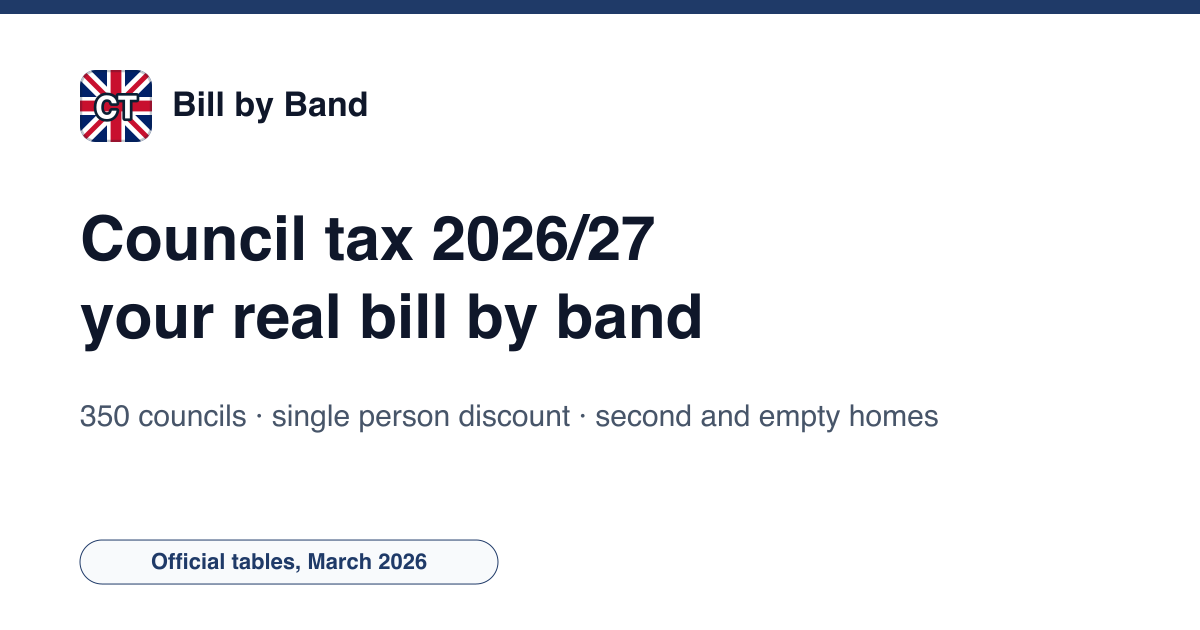
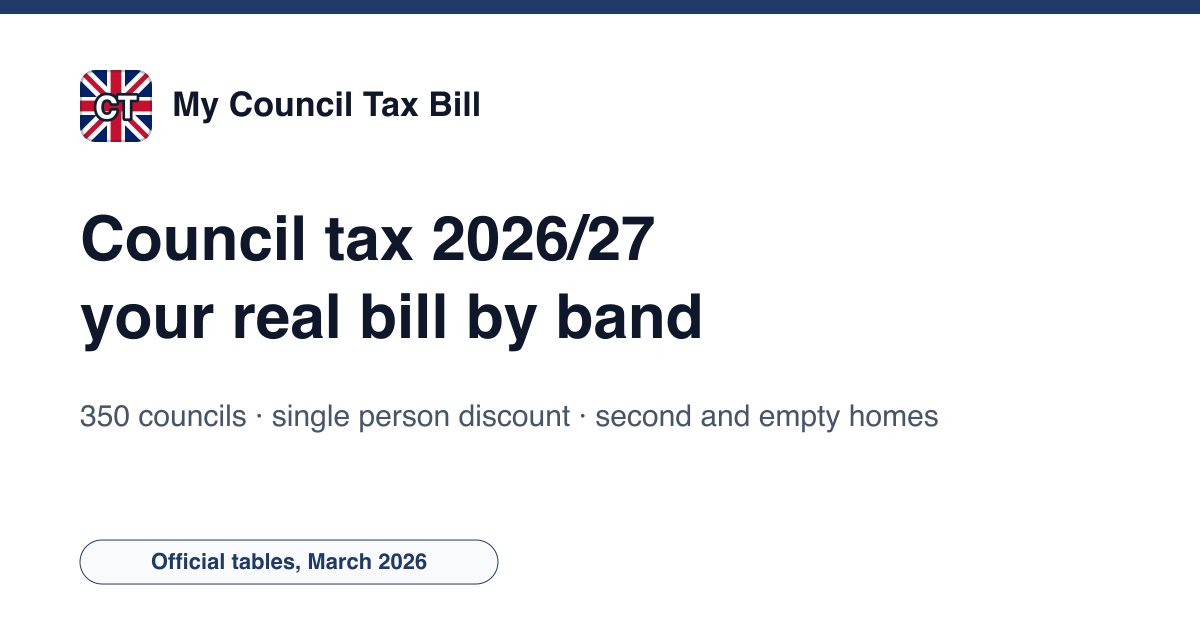
Domaine mycounciltaxbill.co.uk : adresse, marque My Council Tax Bill, CNAME et déploiement GitHub Pages avec ping IndexNow

Changed region(s): [[0.1233, 0.1206, 0.4008, 0.2111]]

diff --git a/src/data/site-config.ts b/src/data/site-config.ts
@@ -1,6 +1,6 @@
 /** Configuration centrale du site (générée par new-site.py). */
-export const SITE_URL = "https://uk-council-tax.example";
-export const SITE_NAMES: Record<string, string> = {"en": "Bill by Band"};
+export const SITE_URL = "https://mycounciltaxbill.co.uk";
+export const SITE_NAMES: Record<string, string> = {"en": "My Council Tax Bill"};
 export const LANG_TAGS: Record<string, string> = {"en": "en-GB"};
 export const OG_LOCALES: Record<string, string> = {"en": "en_GB"};
 export const LOCALE_TAG = 'en-GB';
@@ -11,12 +11,12 @@ export const SITE_FOUNDED = '2026';
 export const LAST_UPDATED = '2026-10-19';
 export const AUTHOR_NAME = 'Radif Partners';
 export const AUTHOR_ROLE: Record<string, string> = {"en": "Independent publisher of council tax bill calculators for England, Wales and Scotland"};
-export const AUTHOR_DESC: Record<string, string> = {"en": "Radif Partners builds Bill by Band from the council tax tables the three governments publish each March: MHCLG's Tables 9 and 10 for the 296 billing authorities of England, the Welsh Government's figures for its 22 councils and the Scottish Government's Council Tax by band for 32 councils, plus Scottish Water's charges. The engine applies the band ratios of each nation, the 25 % and 50 % discounts, student and other exemptions, the Disabled Band Reduction and the second and empty homes premiums, each rule cited from legislation.gov.uk, GOV.UK, gov.wales or gov.scot. No council, agent or adviser pays for the site."};
+export const AUTHOR_DESC: Record<string, string> = {"en": "Radif Partners builds My Council Tax Bill from the council tax tables the three governments publish each March: MHCLG's Tables 9 and 10 for the 296 billing authorities of England, the Welsh Government's figures for its 22 councils and the Scottish Government's Council Tax by band for 32 councils, plus Scottish Water's charges. The engine applies the band ratios of each nation, the 25 % and 50 % discounts, student and other exemptions, the Disabled Band Reduction and the second and empty homes premiums, each rule cited from legislation.gov.uk, GOV.UK, gov.wales or gov.scot. No council, agent or adviser pays for the site."};
 /** Sujets sur lesquels l'editeur est competent (schema.org knowsAbout). Ce sont les
  *  themes reellement traites par le site, pas une liste de mots-cles : un sujet
  *  declare ici sans page qui le couvre est une declaration fausse. */
 export const KNOWS_ABOUT: Record<string, string[]> = {"en": ["Council tax bands in England, Wales and Scotland", "Council tax single person discount", "Council tax disregards and exemptions", "Disabled Band Reduction Scheme", "Second homes and empty homes council tax premiums", "Scottish Water charges on council tax bills", "Challenging a council tax band with the Valuation Office Agency"]};
-export const CONTACT_EMAIL = "contact@uk-council-tax.example";
+export const CONTACT_EMAIL = "contact@mycounciltaxbill.co.uk";
 export const THEME_COLOR = '#1F3A68';
 export const LOGO_SYMBOL = 'CT';
 export const BING_VERIFY_CODE = '';

diff --git a/src/i18n/ui.ts b/src/i18n/ui.ts
@@ -4,7 +4,7 @@ const en = {
   skipToContent: 'Skip to content', mainNav: 'Main navigation', breadcrumbLabel: 'Breadcrumb', breadcrumbHome: 'Home', menuOpen: 'Open menu',
   faqTitle: 'Questions bill payers ask', relatedCalculators: 'Next sums to do', sourcesTitle: 'Official tables and rules behind this page', writtenBy: 'Worked out by',
   asOf: 'Council tax year 2026/27 (1 April 2026 to 31 March 2027)', lastUpdated: 'figures last updated on', footerValidated: 'Band D figures from MHCLG, the Welsh Government and the Scottish Government', footerBrowser: 'Every bill is worked out in your browser · nothing you type is sent · free, no email, no account',
-  footerDisclaimer: 'Bill by Band is an independent site published by Radif Partners. It is not a council, the Valuation Office Agency, a Scottish assessor or any government body. The bills it shows are estimates from published figures: the bill your council sends is the one you pay.', footerPopular: '',
+  footerDisclaimer: 'My Council Tax Bill is an independent site published by Radif Partners. It is not a council, the Valuation Office Agency, a Scottish assessor or any government body. The bills it shows are estimates from published figures: the bill your council sends is the one you pay.', footerPopular: '',
   notFound: 'There is no page at this address. The council tax calculator and the pages for each council are one click away.',
   readMore: 'Read more', disclaimer: 'Worked out from the 2026/27 official tables; not financial advice, and it does not replace the bill your council sends.',
 };

diff --git a/src/pages/llms.txt.ts b/src/pages/llms.txt.ts
@@ -5,7 +5,7 @@ import { route } from '../i18n/routes';
 import { SITE_URL, LAST_UPDATED } from '../data/site-config';
 export const GET: APIRoute = () => {
   const lines = [
-    '# Bill by Band',
+    '# My Council Tax Bill',
     '',
     `> Council tax bills for 2026/27 in England, Wales and Scotland, worked out in the browser for each of the 350 councils and every band: single person discount, people disregarded, student exemption, Disabled Band Reduction, second homes and long-term empty homes premiums, Scottish Water charges, 10 or 12 instalments. Band D figures from MHCLG (Tables 9 and 10, 25 March 2026), the Welsh Government and the Scottish Government; rules from legislation.gov.uk, GOV.UK, gov.wales and gov.scot (last read ${LAST_UPDATED}). Published by Radif Partners, an independent publisher; not a council, not the Valuation Office Agency.`,
     '',
